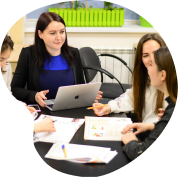
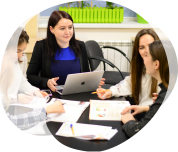
Add responsiveness for hero image

diff --git a/src/sass/components/_hero.scss b/src/sass/components/_hero.scss
@@ -15,7 +15,7 @@
   flex-direction: column;
   gap: 30px;
 
-  background-image: url('../images/desktop-hero.png'), url('../images/bg-wave.svg');
+  background-image: url('../images/mobile-hero.png'), url('../images/bg-wave.svg');
   background-size: 208px 177.5px, cover;
   background-repeat: no-repeat;
   background-position: center bottom 50px, left bottom -25px;
@@ -84,8 +84,15 @@
   }
 }
 
+@media (min-device-pixel-ratio: 2), (min-resolution: 192dpi), (min-resolution: 2dppx) {
+  .hero {
+    background-image: url('../images/mobile-hero@2x.png'), url('../images/bg-wave.svg');
+  }
+}
+
 @media all and (min-width: vars.getThreshold('tablet')) {
   .hero {
+    background-image: url('../images/tablet-hero.png'), url('../images/bg-wave.svg');
     width: vars.getThreshold('tablet');
     max-width: 1354px;
     flex-direction: row;
@@ -119,10 +126,16 @@
       width: 275px;
     }
   }
+  @media (min-device-pixel-ratio: 2), (min-resolution: 192dpi), (min-resolution: 2dppx) {
+    .hero {
+      background-image: url('../images/tablet-hero@2x.png'), url('../images/bg-wave.svg');
+    }
+  }
 }
 
 @media all and (min-width: vars.getThreshold('desktop')) {
   .hero {
+    background-image: url('../images/desktop-hero.png'), url('../images/bg-wave.svg');
     width: 1314px;
     max-width: 1680px;
     height: 778px;
